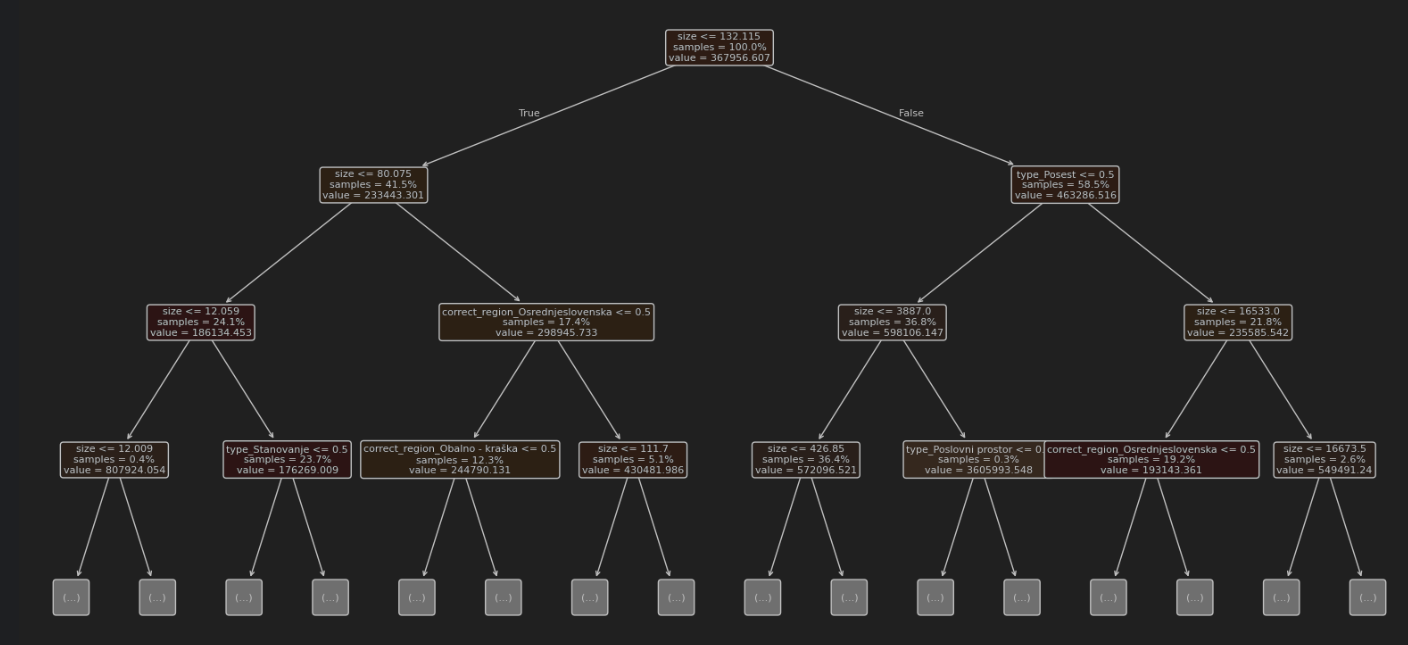
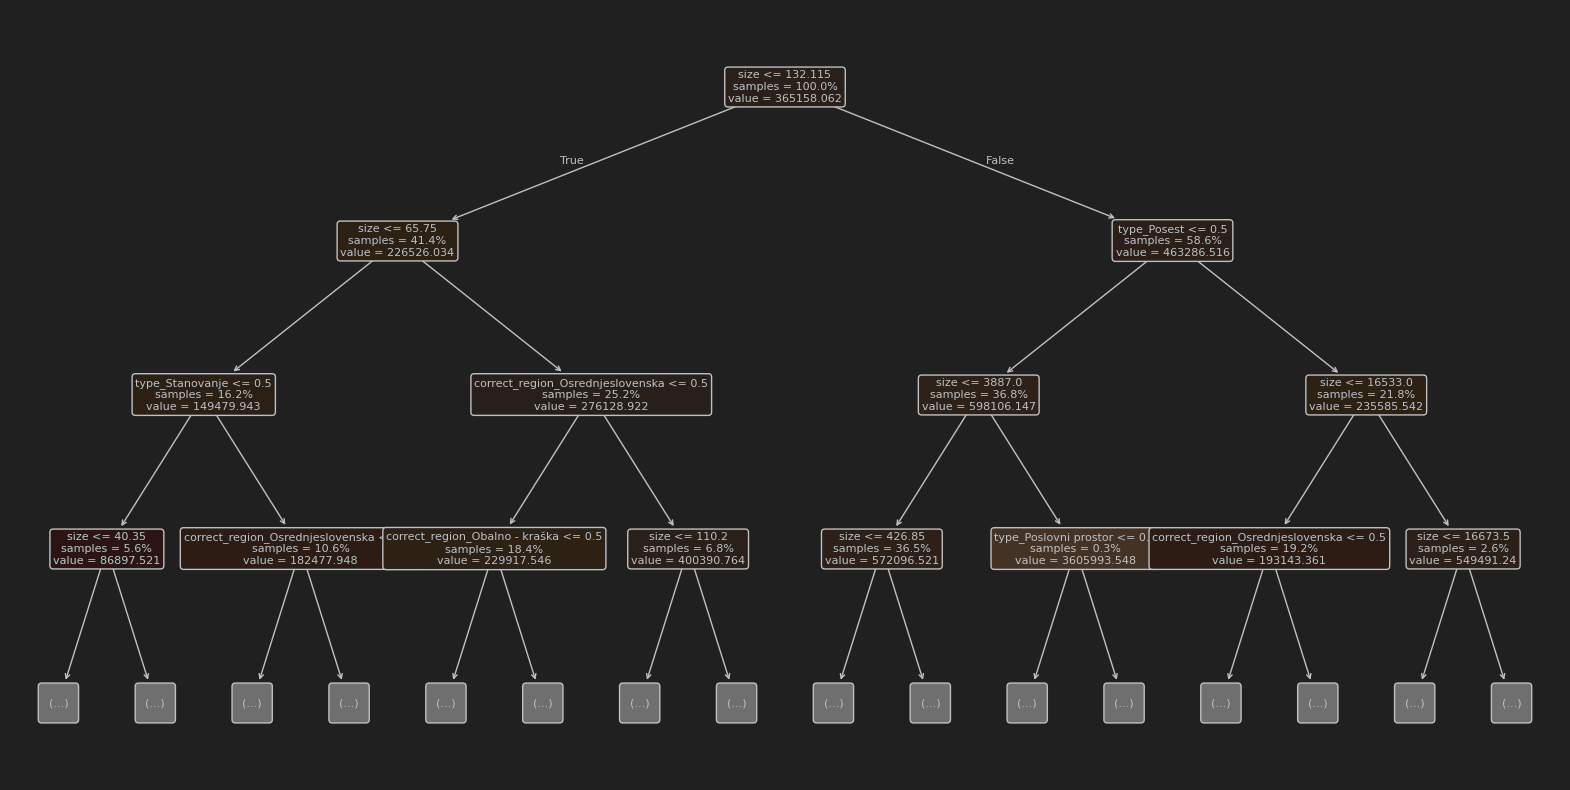
Added regresor and fixed images

diff --git a/KONCNO.md b/KONCNO.md
@@ -79,9 +79,23 @@ Kot demografski atribut smo pogledali še, če je na voljo več nepremičnin v r
 
 Iz zgornjih grafov sklepamo, da je po večini prodaja nepremičnin v skladu s povpraševanjem. Kot regijo s preveč prodaje smo označili Obalno-kraško. V Osrednjeslovnski in Gorenjski regiji vidimo, da je oglasov sicer dovolj, ampak so cenovno nedostopni. Prostor za razširitev prodaje smo zaznali v Zasavki in Primorsko-notranjski regiji, kjer je zaenkrat relativno malo oglasov, ki so precej poceni. Tu pa se je treba spomniti, da ti dve regiji ne vključujeta večjih gospodarskih središč, kar lahko odvrne kupce.
 
+### Regresor
+
+Uporabili smo več različnih regresijskih modelov za napovedovanje cene glede na površino, regijo in tip nepremičnine. Najboljše rezultate, glede na prečno preverjanje, sta dala GradientBoosting in RandomForestRegressor, pri katerem sta bili optimalni globini 5 in 6 (R^2^ med 0,3 in 0,5). Modeli LinearRegression, Ridge in Lasso so nekoliko slabši z R^2^ med 0 in 1,5, medtem ko R^2^ modelov KNeighborsRegressor in MLPRegressor pogosto ne preseže 0.
+
+Primer prečne validacije na testni množici velikosti 0,2:
+`R² na testnem setu (LinearRegression): 0.10430657870022642
+R² na testnem setu (Ridge): 0.08497044209656046
+R² na testnem setu (Lasso): 0.12098481134349481
+R² na testnem setu (RandomForest5): 0.43190956529848945
+R² na testnem setu (RandomForest6): 0.4549999146831979
+R² na testnem setu (GradientBoosting): 0.46266591862521667
+R² na testnem setu (KNN): -0.005953077114646987
+R² na testnem setu (MLP): -0.44082198062659184`
+
 ### Pomembnost atributov
 
-Pri napovedovanju cene z uporabo metode odločitvenih dreves je, če ocenjujemo glede na tip, regijo in površino nepremičnine (pri čemer na neštevilskih atributih uporabimo metodo one-hot encoding), najbolj pomemben atribut površina (pomembnost okoli 0,78), sledita pa mu tip nepremičnine in regija. Če pa napovedujemo ceno/m², torej le glede na tip in regijo, je najpomembnejši atribut, ali je nepremičnina tipa posest (pomembnost okoli 0,45), sledijo pa ostali tipi nepremičnin in regija. Na spodnjih slikah vidimo grafični prikaz pomembnosti atributov za absolutno in za relativno ceno.
+Pri napovedovanju cene z uporabo metode odločitvenih dreves je, če ocenjujemo glede na tip, regijo in površino nepremičnine (pri čemer na neštevilskih atributih uporabimo metodo one-hot encoding), najbolj pomemben atribut površina (pomembnost okoli 0,73), sledita pa mu tip nepremičnine in regija. Če pa napovedujemo ceno/m², torej le glede na tip in regijo, je najpomembnejši atribut, ali je nepremičnina tipa posest (pomembnost okoli 0,47), sledijo pa ostali tipi nepremičnin in regija. Na spodnjih slikah vidimo grafični prikaz pomembnosti atributov za absolutno in za relativno ceno.
 
 Pomembnost atributov za absolutno ceno:
 <img src="slike/atributi_absolute.png" width=600 />
@@ -103,7 +117,6 @@ Model je najbolj točen pri slikah, ki so blizu povprečja, kot je razvidno iz s
 
 V povprečju se model zmoti za 810 EUR/m2 oz. za 33%, kar je precej slabo. Veliko napako pripisujemo veliki količini prej opisanega šuma med slikami. Poleg tega so cene nepremičnin neenakomerno porazdeljene.
 
-### Regresor
 
 ### Interaktivni zemljevid
 
